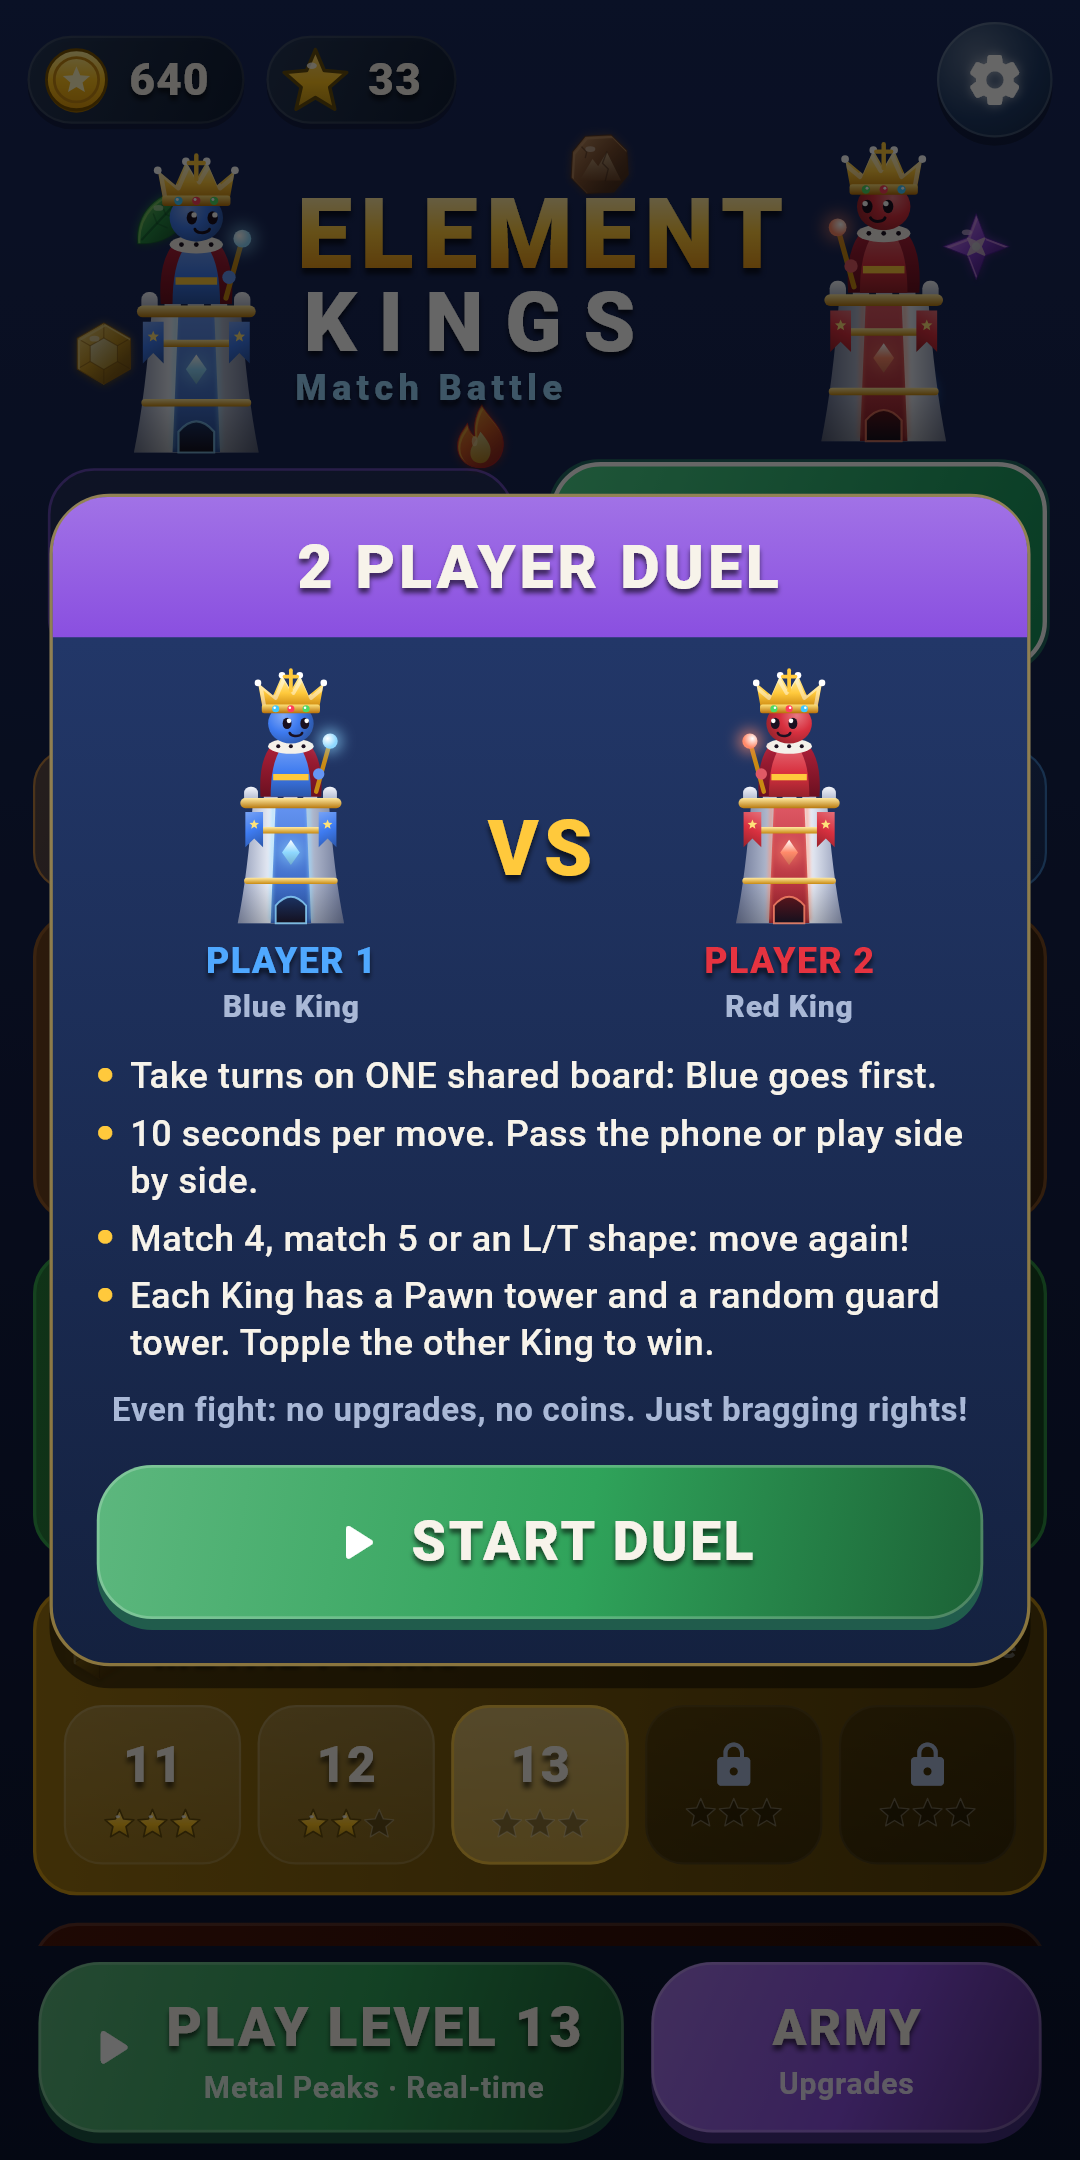
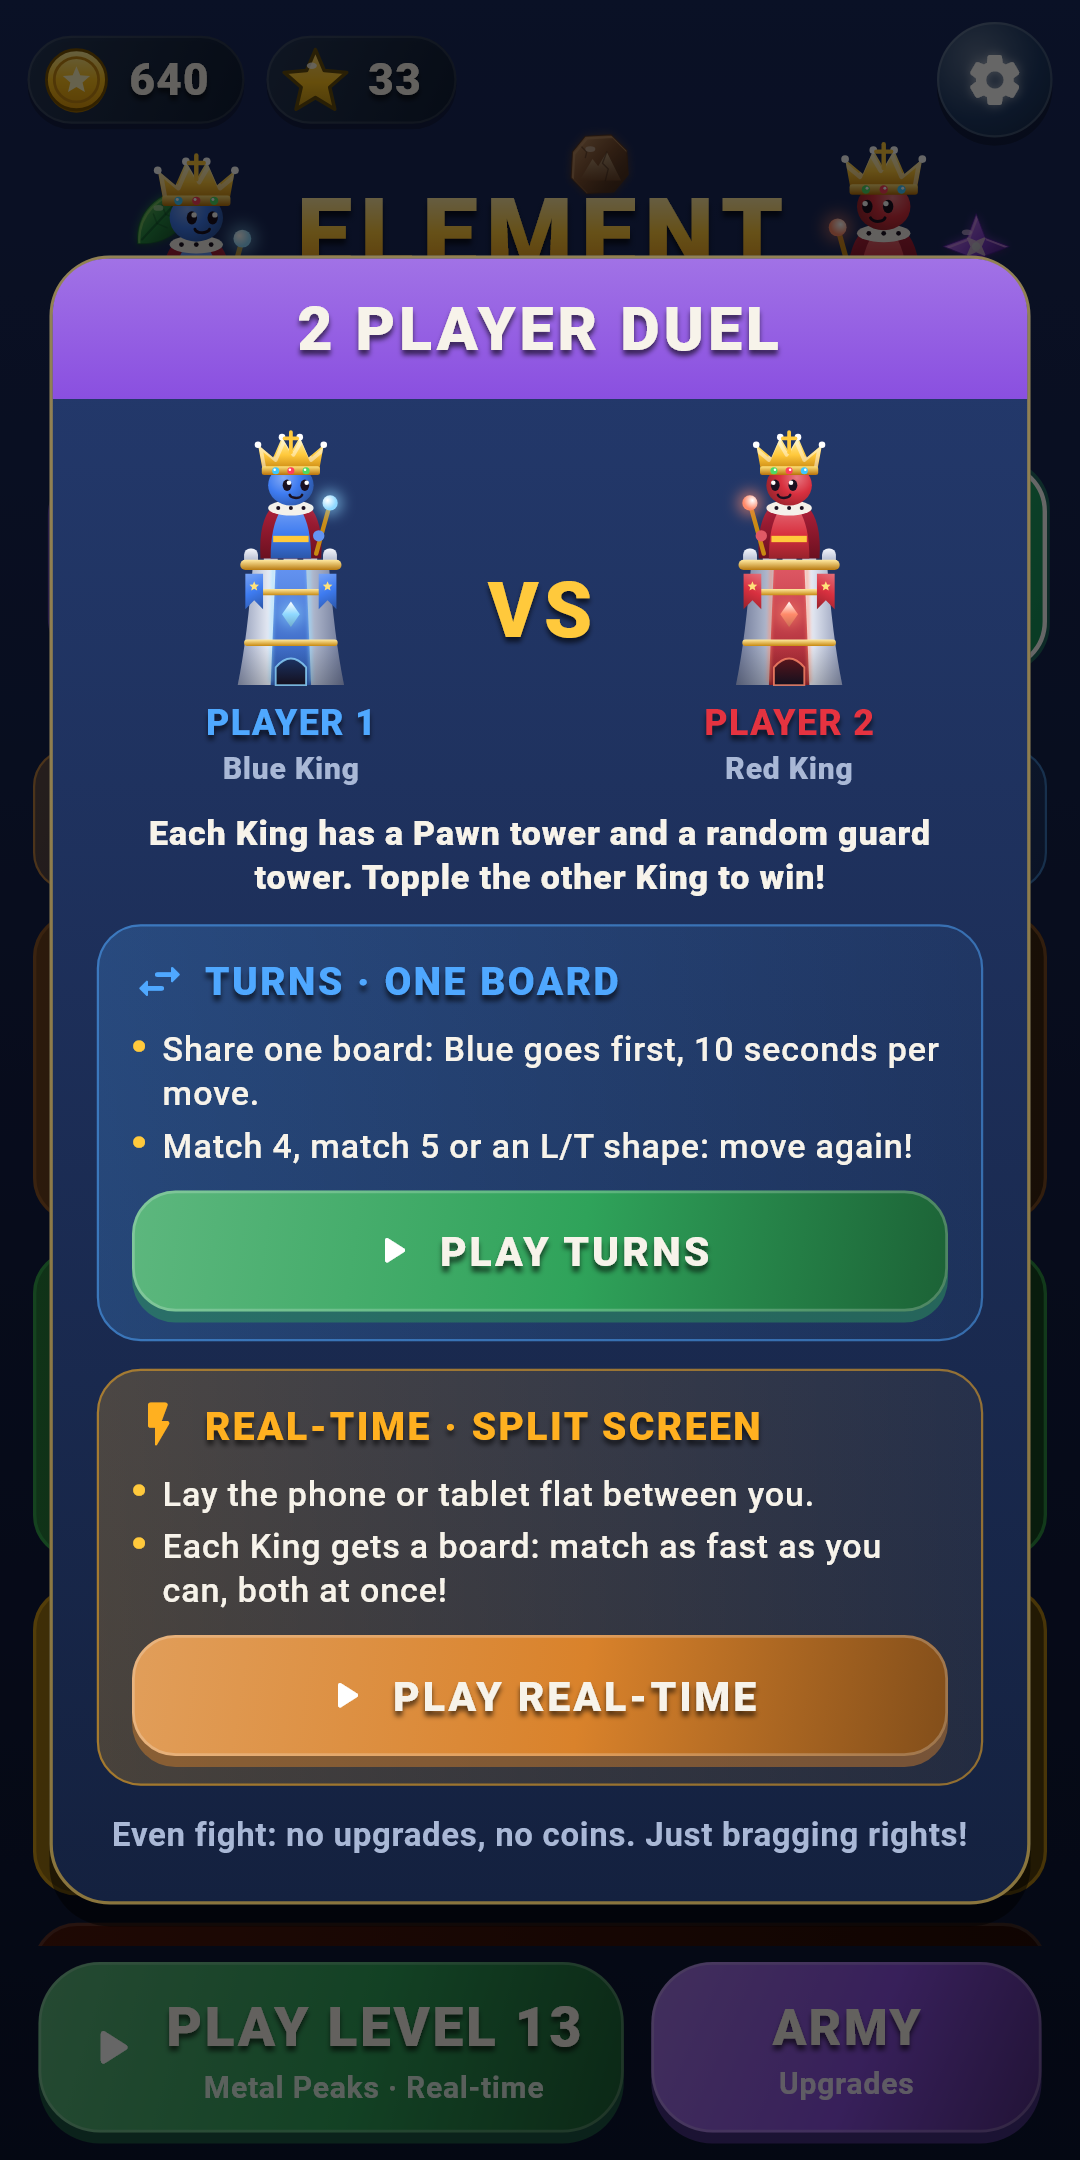
Element Kings 1.6: real-time split-screen duel

diff --git a/elementkings/index.html b/elementkings/index.html
@@ -58,8 +58,8 @@
       <p>Each King starts behind a weak Pawn tower and one random Knight, Rook, Bishop or Queen tower. Break through them first!</p></div>
     <div class="card"><div class="emoji">🏆</div><h3>Endless Arena and daily quests</h3>
       <p>Arena rounds get harder and harder while your King's health carries over. The best runs go on the Hall of Fame. Three new quests every day for bonus coins.</p></div>
-    <div class="card"><div class="emoji">👥</div><h3>2 players on one phone</h3>
-      <p>Challenge a friend: Blue King vs Red King take turns on one shared board. An even fight with no upgrades, just skill.</p></div>
+    <div class="card"><div class="emoji">👥</div><h3>2 players on one device</h3>
+      <p>Challenge a friend: take turns on one shared board, or lay the phone or tablet flat for a real-time split-screen duel with one board each. An even fight with no upgrades, just skill.</p></div>
     <div class="card"><div class="emoji">🗺</div><h3>30 battles, 6 realms</h3>
       <p>From Earth Valley to the Magic Castle. Each realm favours its element, so pick the right counters.</p></div>
     <div class="card"><div class="emoji">⬆</div><h3>Upgrade and play offline</h3>
@@ -80,8 +80,9 @@
     <img src="img/screen-11.png" alt="Daily quests" loading="lazy">
     <img src="img/screen-12.png" alt="An endless Arena round" loading="lazy">
     <img src="img/screen-13.png" alt="Two players: Blue King vs Red King" loading="lazy">
-    <img src="img/screen-14.png" alt="Starting a 2 player duel" loading="lazy">
+    <img src="img/screen-14.png" alt="Choosing turns or a real-time split-screen duel" loading="lazy">
     <img src="img/screen-15.png" alt="Arena Hall of Fame" loading="lazy">
+    <img src="img/screen-16.png" alt="Real-time split-screen duel: one board each" loading="lazy">
   </div>
 </main>
 <footer>
